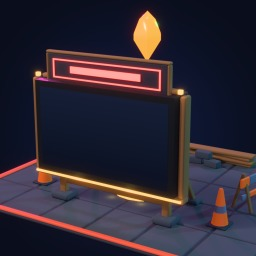
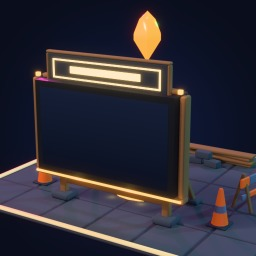
The empty lot's picture in the unowned colour the game gives its kerb (sand), not in an owner's: render_props.py TINT_OF.

Changed region(s): [[0.1875, 0.2188, 0.6562, 0.375], [0.0, 0.7812, 0.6875, 1.0], [0.0, 0.625, 0.1562, 0.7188]]

diff --git a/tools/blender/render_props.py b/tools/blender/render_props.py
@@ -8,7 +8,8 @@
 #   blender --background --factory-startup --python tools/blender/render_props.py -- lot2_pocha taxi [--dummy]
 #   options: --glb <dir>     where the GLBs are (default out/blender/glb)
 #            --out <dir>     where the pictures go (default out/blender/renders)
-#            --tint #rrggbb  the owner's colour put on the `Accent` material (default #ff5a3c)
+#            --tint #rrggbb  the owner's colour put on the `Accent` material (default #ff5a3c; the empty lot has no
+#                            owner and is always drawn with the game's unowned colour, TINT_OF below)
 #            --dummy         add a plain 1.6 m figure for scale and write <name>_dummy.png instead of the final files
 #            --bare          leave out the stand-in screen and name sign (shows the bare mounts)
 #            --no-sheets     skip sheet.png and compare_buildings.png
@@ -83,6 +84,8 @@ def lin(hexcol):
 
 BG_IN, BG_OUT = "#101a3a", "#0a0e1c"       # backdrop: lighter in the middle, darker at the corners
 TINT = lin(OPT["--tint"])
+# An empty lot has no owner: the game colours its kerb sand (EMPTY_ACCENT in ts3d/lotmodels.js), whatever --tint says.
+TINT_OF = dict(lot0_empty="#ffe2a8")
 CAB_YELLOW = "#ffc21a"                     # TAXI_BODY in ts3d/traffic.js: the taxi's `Paint` is exported neutral
 
 # ====================================================================================================== pictures as arrays
@@ -332,7 +335,7 @@ def screen_off_material():
     nt.links.new(em.outputs["Emission"], out.inputs["Surface"])
     return m
 
-def stand_ins(anchors, name=""):
+def stand_ins(anchors, name="", tint=TINT):
     """The screen (with the game's frame) and the name sign, where the game mounts them. Returns light hints."""
     hints = []
     b = anchors.get("BoardAnchor")
@@ -354,14 +357,14 @@ def stand_ins(anchors, name=""):
             gx, gy, gz = SIGN_AT[name]
             c = Vector((gx, -gz, gy))
         w, h = s.scale.x, s.scale.z
-        glow = emission("StandInSign", TINT, 3.2)
+        glow = emission("StandInSign", tint, 3.2)
         add_box("SignBar", (w * 0.62, 0.02, h * 0.30), (c.x, c.y - 0.012, c.z), glow)
         t = max(0.025, h * 0.06)
         for sz in (-1, 1):
             add_box("SignEdge", (w * 0.94, 0.02, t), (c.x, c.y - 0.012, c.z + sz * (h * 0.40)), glow)
         for sx in (-1, 1):
             add_box("SignEdge", (t, 0.02, h * 0.80 + t), (c.x + sx * (w * 0.47), c.y - 0.012, c.z), glow)
-        hints.append((Vector((c.x, c.y - 0.3, c.z)), TINT, w * h * 1.5))
+        hints.append((Vector((c.x, c.y - 0.3, c.z)), tint, w * h * 1.5))
     return hints
 
 def glow_lamps(meshes, centre, size, extra):
@@ -503,13 +506,14 @@ def render_asset(name):
             pass
         scene.frame_set(int(round(act.frame_range[0] + (act.frame_range[1] - act.frame_range[0]) * float(OPT["--frame"]))))
     bpy.context.view_layer.update()
+    tint = lin(TINT_OF[name]) if name in TINT_OF else TINT
     for m in bpy.data.materials:                               # what the game tints: the owner's colour, the cab's paint
         if not m.use_nodes:
             continue
         b = m.node_tree.nodes.get("Principled BSDF")
         if b is not None and m.name.split(".")[0] == "Accent":
-            b.inputs["Base Color"].default_value = (*TINT, 1)
-            b.inputs["Emission Color"].default_value = (*TINT, 1)
+            b.inputs["Base Color"].default_value = (*tint, 1)
+            b.inputs["Emission Color"].default_value = (*tint, 1)
             b.inputs["Emission Strength"].default_value = 0.55
         if b is not None and m.name.split(".")[0] == "Paint":
             b.inputs["Base Color"].default_value = (*lin(CAB_YELLOW), 1)
@@ -517,7 +521,7 @@ def render_asset(name):
     lo, hi = pts.min(0), pts.max(0)
     centre = Vector((lo + hi) / 2)
     size = float(max(hi - lo))
-    hints = [] if BARE else stand_ins(anchors, name)
+    hints = [] if BARE else stand_ins(anchors, name, tint)
     if name not in LOTS:                                       # a plain round floor for the things that have no pad
         r = float(max(hi[0] - lo[0], hi[1] - lo[1])) * 0.54 + 0.2
         bpy.ops.mesh.primitive_cylinder_add(vertices=64, radius=r, depth=0.12, location=(centre.x, centre.y, lo[2] - 0.06))
